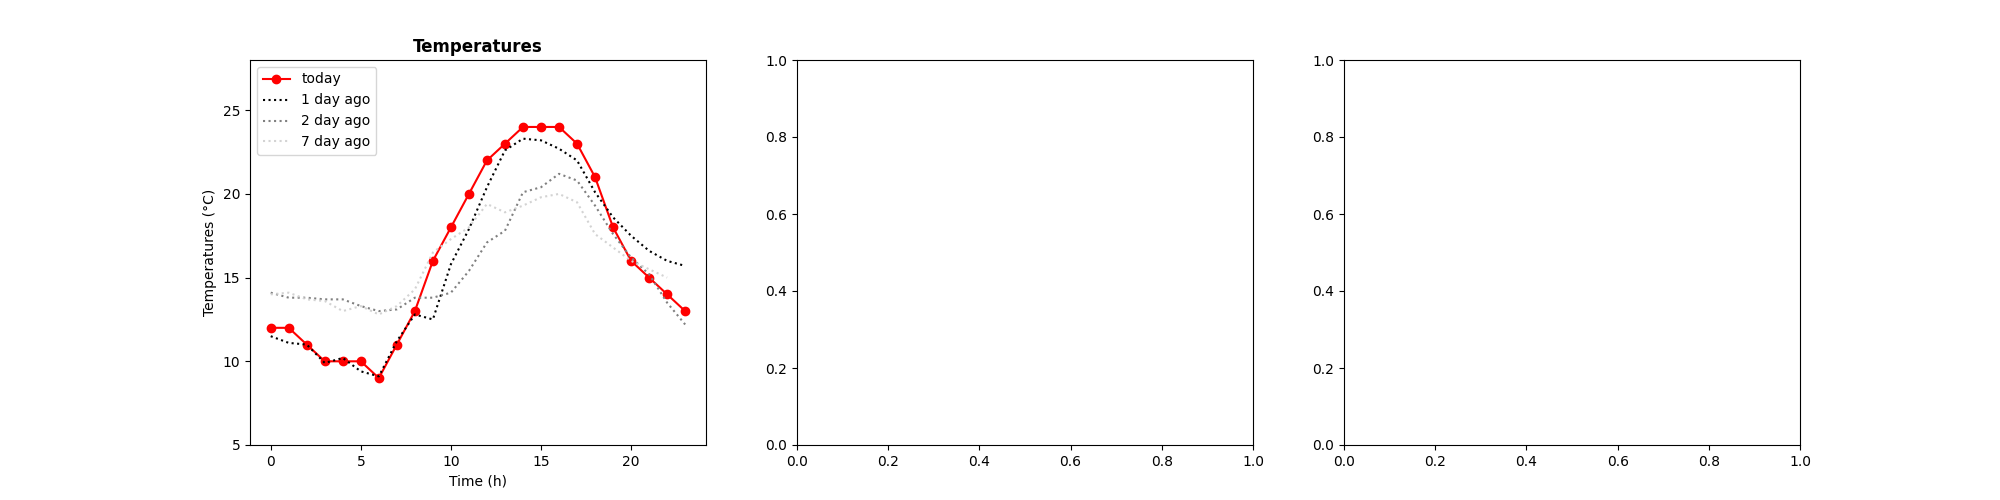
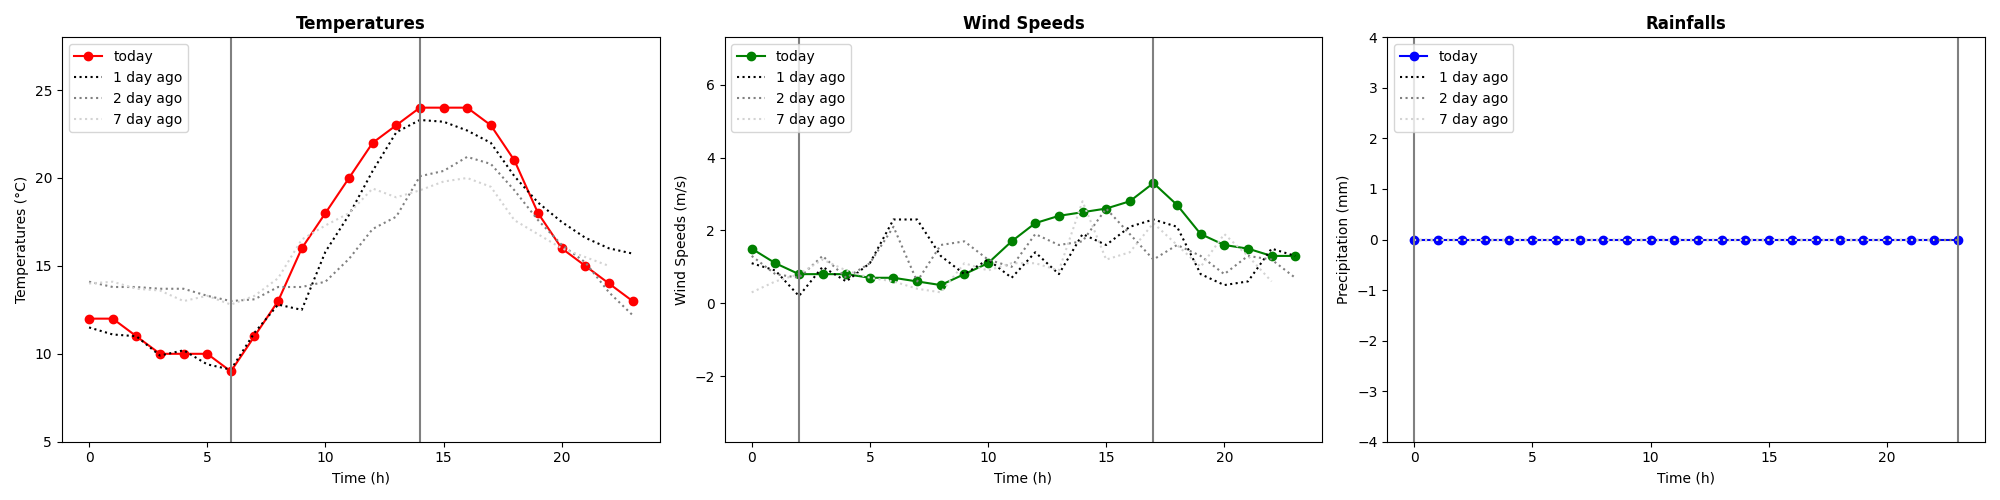
그래프 완

diff --git a/mysite/polls/visualizer.py b/mysite/polls/visualizer.py
@@ -83,72 +83,99 @@ def charts():
     # time_range = [x if x>=0 else x+24 for x in time_range] # 0 미만이면 23부터
     # time_range = [str(x) if len(str(x))==2 else '0'+str(x) for x in time_range] # 문자열화
     
-    #시간 수정예정
-    time_range = [i for i in range(0,24)]
-    # 기온
+
+    #{'id','fcstDate','fcstTime','fcstValue', 'fnx', 'fny','지역명'} 순서
+
     t =datetime.date.today()
     today = t.strftime("%Y%m%d")
     day_1_ago = (t - timedelta(days=1)).strftime("%Y%m%d")
     day_2_ago = (t - timedelta(days=2)).strftime("%Y%m%d")
     day_7_ago = (t - timedelta(days=7)).strftime("%Y%m%d")
+    day = [today, day_1_ago, day_2_ago, day_7_ago]
+
+    #시간 수정예정
+    time_range = [i for i in range(0,24)]
+    # 기온
+    
 
     #index_num 받아와서 수정할 예정
-    temps_today = [float(i[3]) for i in forecastData.objects.filter(fcstDate=today, index_num='156').values_list()]
-    temps_1day_ago = [float(i[3]) for i in forecastData.objects.filter(fcstDate=day_1_ago, index_num='156').values_list()]
-    temps_2day_ago = [float(i[3]) for i in forecastData.objects.filter(fcstDate=day_2_ago, index_num='156').values_list()]
-    temps_7day_ago = [float(i[3]) for i in forecastData.objects.filter(fcstDate=day_7_ago, index_num='156').values_list()]
+    num = '156'
+    temps_today = [float(i[3]) for i in forecastData.objects.filter(fcstDate=today, index_num= num).values_list()]
+    temps_1day_ago = [float(i[3]) for i in forecastData.objects.filter(fcstDate=day_1_ago, index_num=num).values_list()]
+    temps_2day_ago = [float(i[3]) for i in forecastData.objects.filter(fcstDate=day_2_ago, index_num=num).values_list()]
+    temps_7day_ago = [float(i[3]) for i in forecastData.objects.filter(fcstDate=day_7_ago, index_num=num).values_list()]
 
     axs[0].set_title('Temperatures', fontsize = 12, fontweight ="bold")
     axs[0].plot([i for i in range(len(temps_today))], temps_today, color='red', marker='o', linestyle='solid', label='today')
     axs[0].plot([i for i in range(len(temps_1day_ago))], temps_1day_ago, color='black', linestyle=":", label='1 day ago')
     axs[0].plot([i for i in range(len(temps_2day_ago))], temps_2day_ago, color='gray', linestyle=":", label='2 day ago')
     axs[0].plot([i for i in range(len(temps_7day_ago))], temps_7day_ago, color='lightgray', linestyle=":", label='7 day ago')
-    # axs[0].vlines(time, 0, 40, color='gray', linestyle='solid')
+
+    #시간, 값
+    all_temps = temps_today+temps_1day_ago+temps_2day_ago+temps_7day_ago
+    all_temps2 = [[float(i[2]),float(i[3])] for i in forecastData.objects.filter(fcstDate=day_1_ago, index_num=num).values_list()]
+    all_temps2.sort(key=lambda x:x[1])
+
+    #수직선 제일 작은 값, 큰 값
+    axs[0].vlines(all_temps2[0][0], min(all_temps)-4, max(all_temps)+4, color='gray', linestyle='solid')
+    axs[0].vlines(all_temps2[-1][0], min(all_temps)-4, max(all_temps)+4, color='gray', linestyle='solid')
 
     axs[0].legend(loc='upper left', ncols=1)
     axs[0].set_ylabel("Temperatures (°C)")
     axs[0].set_xlabel("Time (h)")
-    all_temps = temps_today+temps_1day_ago+temps_2day_ago+temps_7day_ago
     axs[0].set_ylim(min(all_temps)-4, max(all_temps)+4)
 
     # #풍속
-    # winds = list(np.random.randint(14, 20, size=8))
-    # winds_1day_ago = list(np.random.randint(17, 23, size=8))
-    # winds_2day_ago = list(np.random.randint(17, 23, size=8))
-    # winds_7day_ago = list(np.random.randint(17, 23, size=8))
+    wind_today = [float(i[3]) for i in Wind.objects.filter(fcstDate=today, index_num=num).values_list()]
+    wind_1day_ago = [float(i[3]) for i in Wind.objects.filter(fcstDate=day_1_ago, index_num=num).values_list()]
+    wind_2day_ago = [float(i[3]) for i in Wind.objects.filter(fcstDate=day_2_ago, index_num=num).values_list()]
+    wind_7day_ago = [float(i[3]) for i in Wind.objects.filter(fcstDate=day_7_ago, index_num=num).values_list()]
 
-    # axs[1].set_title('Wind Speeds', fontsize = 12, fontweight ="bold")
-    # axs[1].plot(time_range, winds, color='green', marker='o', linestyle='solid', label='today')
-    # axs[1].plot(time_range, winds_1day_ago, color='black', linestyle=":", label='1 day ago')
-    # axs[1].plot(time_range, winds_2day_ago, color='gray', linestyle=":", label='2 day ago')
-    # axs[1].plot(time_range, winds_7day_ago, color='lightgray', linestyle=":", label='7 day ago')
-    # axs[1].vlines(time, 0, 40, color='gray', linestyle='solid')
 
-    # axs[1].legend(loc='upper left', ncols=1)
-    # axs[1].set_ylabel("Wind Speeds (m/s)")
-    # axs[1].set_xlabel("Time (h)")
-    # all_winds = winds+winds_1day_ago+winds_2day_ago+winds_7day_ago
-    # axs[1].set_ylim(min(all_winds)-4, max(all_winds)+4)
+    axs[1].set_title('Wind Speeds', fontsize = 12, fontweight ="bold")
+    axs[1].plot([i for i in range(len(wind_today))], wind_today, color='green', marker='o', linestyle='solid', label='today')
+    axs[1].plot([i for i in range(len(wind_1day_ago))], wind_1day_ago, color='black', linestyle=":", label='1 day ago')
+    axs[1].plot([i for i in range(len(wind_2day_ago))], wind_2day_ago, color='gray', linestyle=":", label='2 day ago')
+    axs[1].plot([i for i in range(len(wind_7day_ago))], wind_7day_ago, color='lightgray', linestyle=":", label='7 day ago')
+    
+    all_wind = wind_today+wind_1day_ago+wind_2day_ago+wind_7day_ago
+    all_wind2 = [[float(i[2]),float(i[3])] for i in Wind.objects.filter(fcstDate=day_1_ago, index_num=num).values_list()]
+    all_wind2.sort(key=lambda x:x[1])
+
+    axs[1].vlines(all_wind2[0][0], min(all_wind)-4, max(all_wind)+4, color='gray', linestyle='solid')
+    axs[1].vlines(all_wind2[-1][0], min(all_wind)-4, max(all_wind)+4, color='gray', linestyle='solid')
+
+
+
+    axs[1].legend(loc='upper left', ncols=1)
+    axs[1].set_ylabel("Wind Speeds (m/s)")
+    axs[1].set_xlabel("Time (h)")
+    axs[1].set_ylim(min(all_wind)-4, max(all_wind)+4)
 
     # #강수량
-    # rainf = list(np.random.randint(14, 20, size=8))
-    # rainf_1day_ago = list(np.random.randint(17, 23, size=8))
-    # rainf_2day_ago = list(np.random.randint(17, 23, size=8))
-    # rainf_7day_ago = list(np.random.randint(17, 23, size=8))
+    rain_today = [float(i[3]) for i in Rainpercent.objects.filter(fcstDate=today, index_num=num).values_list()]
+    rain_1day_ago = [float(i[3]) for i in Rainpercent.objects.filter(fcstDate=day_1_ago, index_num=num).values_list()]
+    rain_2day_ago = [float(i[3]) for i in Rainpercent.objects.filter(fcstDate=day_2_ago, index_num=num).values_list()]
+    rain_7day_ago = [float(i[3]) for i in Rainpercent.objects.filter(fcstDate=day_7_ago, index_num=num).values_list()]
 
-    # axs[2].set_title('Rainfalls', fontsize = 12, fontweight ="bold")
-    # axs[2].plot(time_range, rainf, color='blue', marker='o', linestyle='solid', label='today')
-    # axs[2].plot(time_range, rainf_1day_ago, color='black', linestyle=":", label='1 day ago')
-    # axs[2].plot(time_range, rainf_2day_ago, color='gray', linestyle=":", label='2 day ago')
-    # axs[2].plot(time_range, rainf_7day_ago, color='lightgray', linestyle=":", label='7 day ago')
-    # axs[2].vlines(time, 0, 40, color='gray', linestyle='solid')
+    axs[2].set_title('Rainfalls', fontsize = 12, fontweight ="bold")
+    axs[2].plot([i for i in range(len(rain_today))], rain_today, color='blue', marker='o', linestyle='solid', label='today')
+    axs[2].plot([i for i in range(len(rain_1day_ago))], rain_1day_ago, color='black', linestyle=":", label='1 day ago')
+    axs[2].plot([i for i in range(len(rain_2day_ago))], rain_2day_ago, color='gray', linestyle=":", label='2 day ago')
+    axs[2].plot([i for i in range(len(rain_7day_ago))], rain_7day_ago, color='lightgray', linestyle=":", label='7 day ago')
+    
+    all_rain = rain_today+rain_1day_ago+rain_2day_ago+rain_7day_ago
+    all_rain2 = [[float(i[2]),float(i[3])] for i in Rainpercent.objects.filter(fcstDate=day_1_ago, index_num=num).values_list()]
+    all_rain2.sort(key=lambda x:x[1])
 
-    # axs[2].legend(loc='upper left', ncols=1)
-    # axs[2].set_ylabel("Precipitation (mm)")
-    # axs[2].set_xlabel("Time (h)")
-    # all_rainf = rainf+rainf_1day_ago+rainf_2day_ago+rainf_7day_ago
-    # axs[2].set_ylim(min(all_rainf)-4, max(all_rainf)+4)
+    axs[2].vlines(all_rain2[0][0], min(all_rain)-4, max(all_rain)+4, color='gray', linestyle='solid')
+    axs[2].vlines(all_rain2[-1][0], min(all_rain)-4, max(all_rain)+4, color='gray', linestyle='solid')
 
-    # fig.tight_layout()
+    axs[2].legend(loc='upper left', ncols=1)
+    axs[2].set_ylabel("Precipitation (mm)")
+    axs[2].set_xlabel("Time (h)")
+    axs[2].set_ylim(min(all_rain)-4, max(all_rain)+4)
+
+    fig.tight_layout()
     plt.savefig(abspath+'temp_graph.png', format='png')
     # plt.show()
